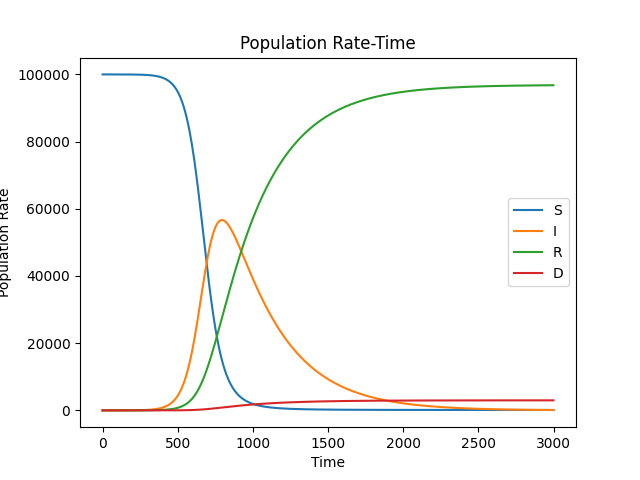
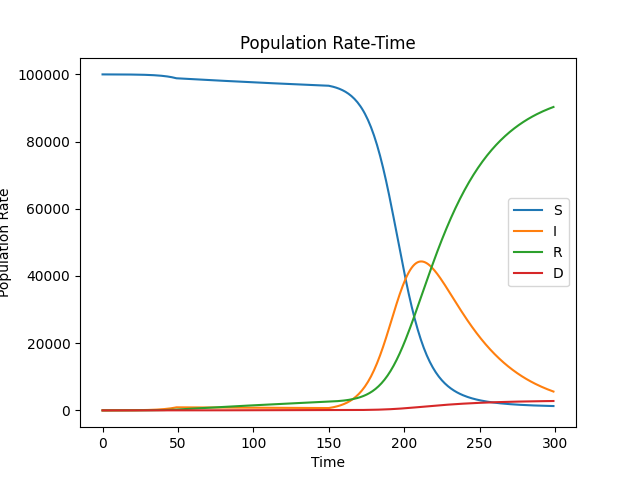
緊急事態宣言時の接触人数を定義、宣言した期間内で接触人数を下げる処理を加えた

diff --git a/app.py b/app.py
@@ -21,26 +21,30 @@ death_num→死亡するまでの日数
 
 # 初期条件
 S = 100000
-I = 1
+I = 5
 R = 0
 D = 0
 N = S + I + R
 t = 0
 
 # 各パラメータの設定
-contact_num = 10
-infetion_rate = 0.002
-healing_rate = 0.003
-loop_num = 3000
+contact_num = 14 #流行前の平均接触人数(１日における一人当たり)
+emergency_contact_num = contact_num * 0.2 #緊急事態宣言時は、平時の2割程度の接触率
+infetion_rate = 0.01
+healing_rate = 0.03
+loop_num = 300
+emergency_loop_num = 100
+emergency_start = 50
+emergency_stop = emergency_start + emergency_loop_num
 delta_t = 1
 exposed_num = 5
 death_rate = 0.03
 death_num = 20
 
 CN = contact_num
+ECN = emergency_contact_num
 IR = infetion_rate
 HR = healing_rate
-LN = loop_num
 DR = death_rate
 
 # 結果記録用のリスト
@@ -51,25 +55,50 @@ R_list = []
 D_list = []
 
 for t in range(loop_num):
-    new_S = S + delta_t * (-IR * CN * (I/N) * S) #I/N→人口における感染してる人の割合、
-    new_I = I + delta_t * (IR * CN * (I/N) * S - HR * I)
-    new_R = R + delta_t * ((1-DR)*HR * I)
-    new_D = D + delta_t * (DR * HR * I)
+    if emergency_start <= t <=emergency_stop : 
 
-    """すべての微分形の足し算→0""" #(-IR * CN * (I/N) * S)+(IR * CN * (I/N) * S - HR * I)+((1-DR)*HR * I)+(DR * HR * I)
+        new_S = S + delta_t * (-IR * ECN * (I/N) * S) #I/N→人口における感染してる人の割合、
+        new_I = I + delta_t * (IR * ECN * (I/N) * S - HR * I)
+        new_R = R + delta_t * ((1-DR)*HR * I)
+        new_D = D + delta_t * (DR * HR * I)
 
-    t_list.append(t)
-    S_list.append(new_S)
-    I_list.append(new_I)
-    R_list.append(new_R)
-    D_list.append(new_D)
+        """すべての微分形の足し算→0""" #(-IR * CN * (I/N) * S)+(IR * CN * (I/N) * S - HR * I)+((1-DR)*HR * I)+(DR * HR * I)
 
-    S = new_S
-    I = new_I
-    R = new_R
-    D = new_D
+        t_list.append(t)
+        S_list.append(new_S)
+        I_list.append(new_I)
+        R_list.append(new_R)
+        D_list.append(new_D)
 
-    t = t + delta_t 
+        S = new_S
+        I = new_I
+        R = new_R
+        D = new_D
+
+        t = t + delta_t 
+
+
+    else : 
+        new_S = S + delta_t * (-IR * CN * (I/N) * S) #I/N→人口における感染してる人の割合、
+        new_I = I + delta_t * (IR * CN * (I/N) * S - HR * I)
+        new_R = R + delta_t * ((1-DR)*HR * I)
+        new_D = D + delta_t * (DR * HR * I)
+
+        """すべての微分形の足し算→0""" #(-IR * CN * (I/N) * S)+(IR * CN * (I/N) * S - HR * I)+((1-DR)*HR * I)+(DR * HR * I)
+
+        t_list.append(t)
+        S_list.append(new_S)
+        I_list.append(new_I)
+        R_list.append(new_R)
+        D_list.append(new_D)
+
+        S = new_S
+        I = new_I
+        R = new_R
+        D = new_D
+
+        t = t + delta_t 
+    
 
 fig = plt.figure()
 plt.plot(t_list, S_list, label='S')
@@ -83,3 +112,5 @@ plt.ylabel('Population Rate')
 plt.legend()
 plt.show()
 fig.savefig('InfectionSimulation.png')
+
+"""2020年緊急事態宣言(4月-5月の一か月間)"""
